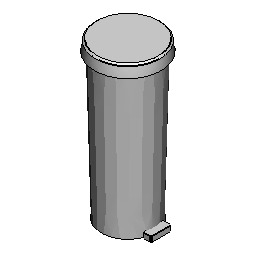
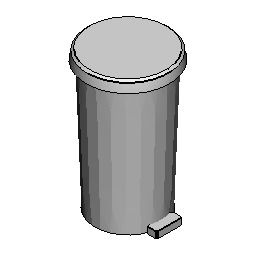
Drop the pedal bin to 500mm
50cm rather than 70: at 700 it reads as a column beside a worktop, and the
point of the part is the thing you kick open next to a cabinet.

The manifest's default and the builder's fallback move together, the way
the base cabinet's do. The cap keeps its 6mm fall, now over a 35mm skirt,
so the dome is slightly rounder than it was - the fall is absolute. The
taper and the pedal are untouched, and the part still measures 300 x 300
across.

K5's numbers follow. Verified in FreeCAD: 300 x 300 x 500, one valid solid,
plan fill 0.785 at both section heights. Full harness 0 check(s) failed;
pytest 545 passed.

Changed region(s): [[0.25, 0.0312, 0.75, 0.9688]]

diff --git a/archplus/tools/partslib/library/basic/waste-bin/builder.py b/archplus/tools/partslib/library/basic/waste-bin/builder.py
@@ -41,7 +41,7 @@ def build(params, assets, ctx):
     # what the manifest advertises, never wider than it. Same rule as the
     # worktops - build the overhang inwards.
     diameter = min(width, float(depth))
-    height = float(params.get("Height", 700))
+    height = float(params.get("Height", 500))
 
     overhang = min(_LID_OVERHANG, diameter * 0.05)
     lid_height = max(height * _LID_SHARE, 20.0)

diff --git a/docs/PARTS-LIBRARY-VERIFICATION.md b/docs/PARTS-LIBRARY-VERIFICATION.md
@@ -170,7 +170,7 @@ only a real placement click can show.
       than outlined on it — each should carry a shadow on all four sides,
       the way the base cabinet with oven's front does.
 - [ ] **K5 (the bin is round).** Place **Pedal bin**: it stands on the floor
-      and measures 300 × 300 × 700. A round plan is one dimension, so
+      and measures 300 × 300 × 500. A round plan is one dimension, so
       **Depth** reads derived (italic) and follows **Width** — change
       **Width** to `400` and the bin rebuilds round at 400 across, keeping
       the taper and the lid's overhang. At the defaults the body is 270
